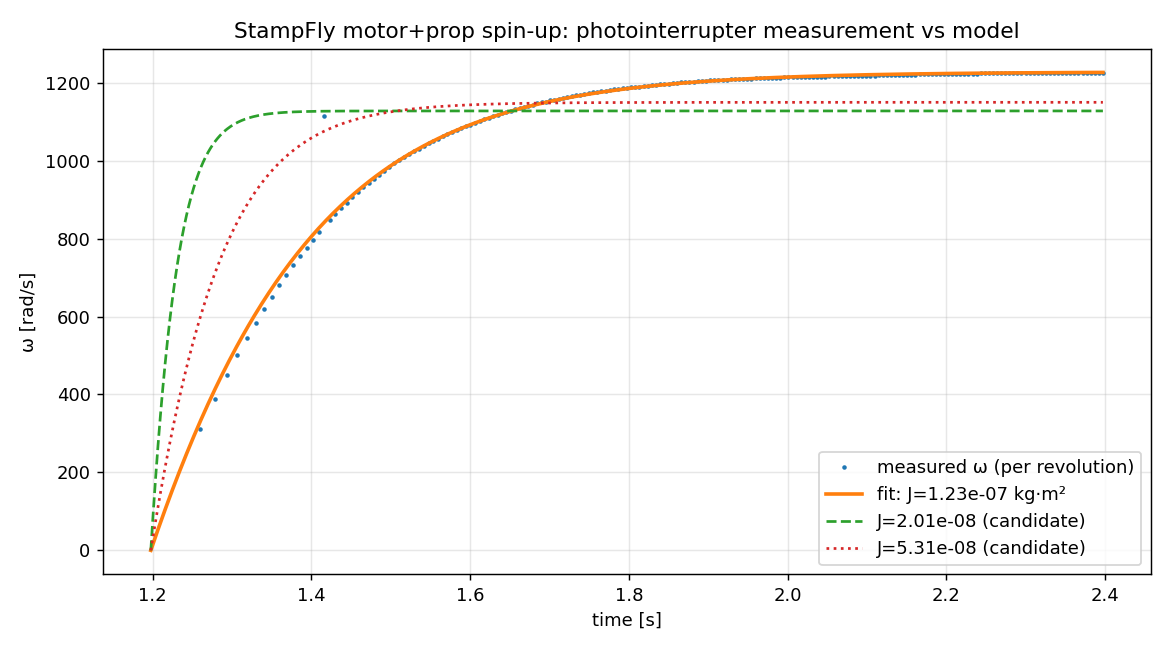
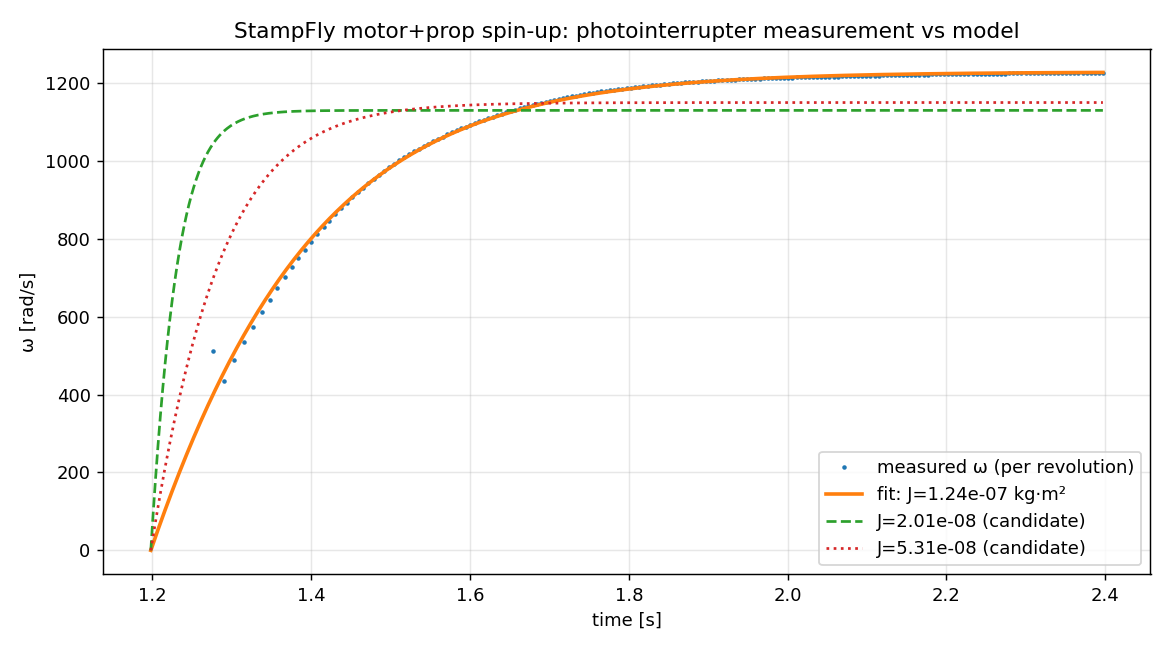
feat(calc): confirm pulse structure, add duty-scaled drive model fit
先生の情報（4パルス=1回転・反射テープ・入力はステップ）を受けた再解析。

Changes:
- notes/calc/photointerrupter_id.py: 検出閾値をテープパルス専用(3.45V)に変更、
  Dutyスケール逆起電力モデル（構成Aは回生経路なし）のフィットを追加
- notes/qa_log.md: 振幅解析による構造確定（4ディップ/回転、テープ=3.335V幅339µs、
  ω_ss=1225rad/s=11,694rpm）、駆動モデル依存性の発見、Q4-6（コーストダウン提案）

Key findings:
- ω(t)復元は有効（当初閾値が偶然テープのみ検出）。テープ専用閾値で残差0.7%に改善
- 入力ステップ確定により、J推定の不確かさは電気駆動の平均モデル選択に帰着:
  常時ブレーキモデル→J=1.24e-7 / DutyスケールモデルJ=5.0e-8≈論文値5.31e-8
- 決着手段: コーストダウン試験（1/ωが直線、電気モデル不要）を先生に提案

Next steps:
- 先生の回答待ち: Q4-6（コーストダウン記録の追加測定）、指令Duty値
- 了解が出ればsf_sandboxのMNAシミュレータで過渡フィット（本命の決着手段）

diff --git a/notes/calc/photointerrupter_id.py b/notes/calc/photointerrupter_id.py
@@ -6,11 +6,14 @@ Data / データ:
   rigol-wfm-viewer/samples/NewFile3.wfm — DS1054Z, 5 MSa/s, 2.4 s, 12M points.
   反射式フォトインタラプタのパルス列。静止 → 定常回転への立ち上がり。
 
-Pulse structure found by inspection / 事前検査で判明したパルス構造:
-  - 定常部の間隔は完全に均一（~5.13 ms, mod-4 パターン無し）
-    → 基本は 1 パルス = 1 回転（README の「約11,700rpm」= 1/5.13ms×60 と整合）
-  - 立ち上がり中のみ「短・長」交互の余分な反射パルスが混入（和は滑らかに変化）
-    → 回転周期の連続性を使った後ろ向き併合で除去する
+Pulse structure (confirmed with teacher + amplitude analysis, 2026-07-15):
+パルス構造（先生の情報+振幅解析で確定）:
+  - プロペラは4枚 → 1回転に4ディップ（間隔~1.28ms@定常）
+  - うち1枚に反射テープ → そのディップだけ深く幅広い
+    （テープ: ~3.31-3.34V/339µs、他ブレード: 3.53-3.74V/~100µs）
+  - テープ→テープ間隔 = 1回転（定常5.13ms → 1225 rad/s = 11,694rpm）
+  - 検出閾値 LO=3.45V はテープのみを常に選択（他ブレード最深3.53Vと分離）
+  - 併合ロジックは保険として残す（万一他ブレードが閾値を跨いだ場合の防御）
 
 Identification / 同定:
   モデル: J·dω/dt = A − B_emf·ω − C_Q·ω²,  A = Kt·V·D/R（入力・未知）
@@ -41,7 +44,8 @@ v = np.asarray(ch.volts)
 t = np.asarray(ch.times)
 t = t - t[0]
 
-HI, LO = 4.05, 3.55                  # hysteresis thresholds [V]
+HI, LO = 3.90, 3.45                  # hysteresis thresholds [V]: tape pulse only
+                                     # テープパルスのみ検出（他ブレードは最深3.53V）
 s = np.zeros(len(v), dtype=np.int8)
 s[v > HI] = 1
 s[v < LO] = -1
@@ -122,6 +126,40 @@ for Jc in (2.01e-8, 5.31e-8):
                       bounds=([A_guess * 0.5, t0_guess - 0.3], [A_guess * 2.0, edges[0]]))
     rmsc = np.sqrt(np.mean(r.fun**2))
     print(f"  J = {Jc:.2e}: RMS = {rmsc:6.1f} rad/s ({100*rmsc/w_ss:.1f}% of ω_ss)")
+
+# ---------- 3b. duty-scaled back-EMF variant / Dutyスケール逆起電力モデル ----------
+# Config A (single low-side MOSFET + 100nF cap) has no regeneration path to the
+# battery during OFF; back-EMF braking may act only ~Duty of the time.
+# 構成Aは OFF 期間に電池への回生経路がなく、逆起電力ブレーキは ON 期間（≈Duty）
+# だけ効く可能性がある。その平均モデル: J·ω̇ = D·KtV/R − D·KtKe·ω/R − CQ·ω²
+V_BAT = 3.7
+KT = KE = 5.35e-4
+R_W = 0.593
+
+def sim_dutyscaled(J, D, t0, tq):
+    A = D * KT * V_BAT / R_W
+    B = D * KT * KE / R_W
+    dt = 1e-4
+    tt = np.arange(t0, tq[-1] + dt, dt)
+    om = np.zeros(len(tt))
+    for i in range(1, len(tt)):
+        o = om[i - 1]
+        f = lambda x: (A - B * x - CQ * x * x) / J
+        k1 = f(o); k2 = f(o + 0.5 * dt * k1); k3 = f(o + 0.5 * dt * k2); k4 = f(o + dt * k3)
+        om[i] = o + dt / 6 * (k1 + 2 * k2 + 2 * k3 + k4)
+    return np.interp(tq, tt, om, left=0.0)
+
+fit2 = least_squares(lambda p: sim_dutyscaled(p[0], p[1], p[2], t_f) - omega_f,
+                     x0=[5e-8, 0.1, t0_guess],
+                     bounds=([1e-9, 0.01, t0_guess - 0.3], [5e-7, 1.0, edges[0]]),
+                     xtol=1e-14, ftol=1e-14)
+J2, D2, t02 = fit2.x
+rms2 = np.sqrt(np.mean(fit2.fun**2))
+print("\n== duty-scaled back-EMF fit (drive model alternative) ==")
+print(f"  J = {J2:.3e} kg·m²  D = {D2:.4f}  RMS = {rms2:.1f} rad/s ({100*rms2/w_ss:.1f}%)")
+print("  → J の推定は電気駆動モデルの選択に強く依存する（結論は保留、下記の提案参照）")
+print("  提案: 電源カット後の惰性減速（coast-down）なら電気モデル不要:")
+print("        J·ω̇ = −CQ·ω² → 1/ω(t) が直線、傾き = CQ/J")
 
 # ---------- 4. plot / 図 ----------
 try:

diff --git a/notes/qa_log.md b/notes/qa_log.md
@@ -517,6 +517,36 @@ J_mp に関しては**もう一度測定する必要があるかもしれない*
 - 提案: 次回は2ch収録（CH2にモータ駆動電圧 or PWMゲート信号）にすれば
   入力の形が記録され、解釈1〜3が一発で切り分けられる。
 
+**先生の回答（2026-07-15、逐次）:**
+- パルスは**4パルスで1回転**。定期的に大きいパルスが見えるのは**反射テープ**を
+  貼っているから。
+- 入力は**ステップ**（一定Dutyの150kHz PWM。この時間軸ではPWMは潰れて見えない）。
+
+**振幅解析による確定（波形のディップ深さ）:**
+- 定常部: 4ディップ/回転（間隔~1.28ms）、深さ [3.735, 3.710, **3.335(テープ・幅339µs)**, 3.635] V
+  の繰り返し → テープ→テープ = 1回転 = 5.13ms → **ω_ss = 1225 rad/s = 11,694 rpm 確定**
+- 当初の閾値3.55Vは偶然テープパルスのみを検出しており、ω(t)復元は有効だった。
+  スクリプトは閾値3.45V（テープ専用、他ブレード最深3.53Vと常に分離）に変更済み。
+  過渡中の「余分パルス」の正体は 3.535V まで沈む1枚のブレード（低速時のみ閾値を跨ぐ）。
+
+**モデル依存性の発見（ステップ確定後の再解析）:**
+入力がステップなら、残る不確かさは電気駆動の平均モデル:
+| 駆動モデル | J 推定 | 残差 |
+|---|---|---|
+| 逆起電力ブレーキ常時有効（DC平均） | 1.24e-7 | 0.7%（形状最良） |
+| ブレーキはON期間のみ（Dutyスケール、構成Aは回生経路なし） | **5.0e-8 ≈ 論文値** | 5.3% |
+→ **J の推定は駆動モデルの選択に強く依存**。単一Duty点のデータでは決められない。
+
+**決着手段の提案（未回答）:**
+- Q4-6. **コーストダウン試験**: 電源カット後の惰性減速なら電気モデル不要。
+  J·ω̇ = −C_Q·ω² より 1/ω(t) が直線になり、傾き = C_Q/J。論文の実測 C_Q と
+  組み合わせれば J が電気系と無関係に出る。既存の測定系のまま、
+  「回し切ってから電源を切る」記録を1本お願いできないか？
+- 補助: この測定の指令Duty値（ベンチ表からは11,694rpm≈Duty0.15相当。
+  Dutyスケールモデルの実効D=0.054とは乖離 → どちらの平均モデルも粗い）
+- 本命: 論文のMNAシミュレータ（電気機械連成）で過渡を再現しJをフィット
+  （学生役が sf_sandbox のシミュレータで実施可能、先生の了解があれば）。
+
 ### Q2. なぜロータは 4 つなのか？
 
 （学生の疑問: 揚力を稼ぐだけなら 1 つの大きなロータでもよさそう。